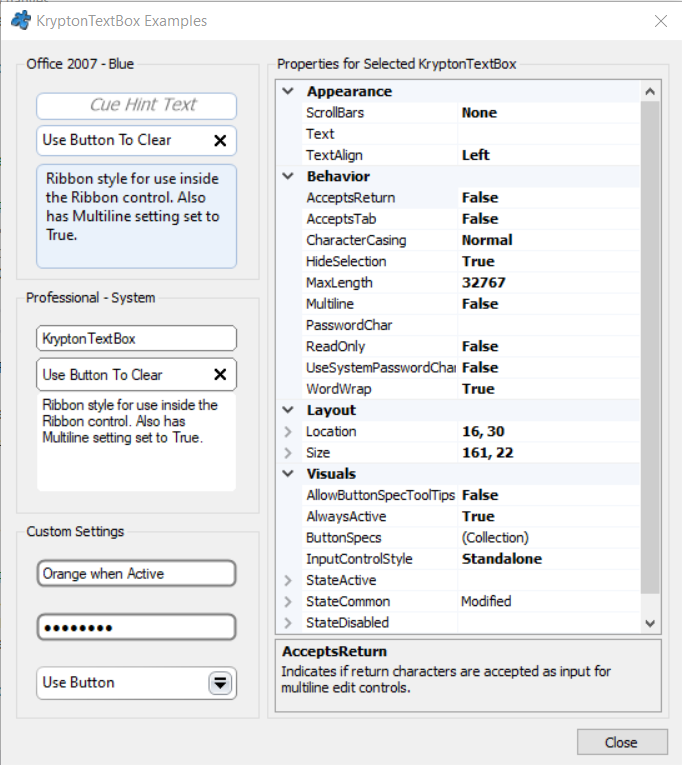
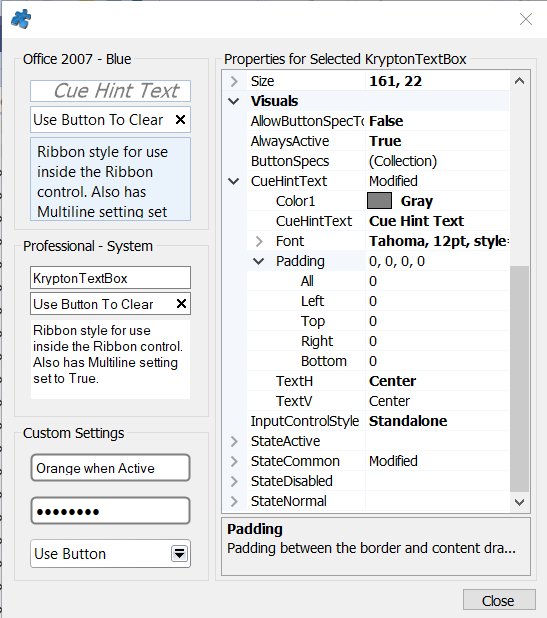
- Update example to deal with CueText Fixes and enhancements https://github.com/Krypton-Suite/Standard-Toolkit/issues/271

Changed region(s): [[0.404, 0.0615, 0.9945, 0.9838], [0.0, 0.0, 1.0, 1.0]]

diff --git a/Source/Krypton Toolkit Examples/KryptonTextBox Examples/Form1.cs b/Source/Krypton Toolkit Examples/KryptonTextBox Examples/Form1.cs
@@ -11,41 +11,29 @@
 #endregion
 
 using System;
+using System.ComponentModel;
 using System.Drawing;
 using System.Windows.Forms;
-using System.ComponentModel;
+
 using Krypton.Toolkit;
 
 namespace KryptonTextBoxExamples
 {
     public partial class Form1 : Form
     {
-        public Form1()
-        {
-            InitializeComponent();
-        }
+        public Form1() => InitializeComponent();
 
-        private void Form1_Load(object sender, EventArgs e)
-        {
+        private void Form1_Load(object sender, EventArgs e) =>
             // Setup the property grid to edit this text box
             propertyGrid.SelectedObject = new KryptonTextBoxProxy(kryptonTextBox1Blue);
-        }
 
-        private void kryptonTextBox1Blue_Enter(object sender, EventArgs e)
-        {
+        private void kryptonTextBox1Blue_Enter(object sender, EventArgs e) =>
             // Setup the property grid to edit this text box
             propertyGrid.SelectedObject = new KryptonTextBoxProxy(sender as KryptonTextBox);
-        }
 
-        private void buttonSpecAny1_Click(object sender, EventArgs e)
-        {
-            kryptonTextBox2Blue.Text = string.Empty;
-        }
+        private void buttonSpecAny1_Click(object sender, EventArgs e) => kryptonTextBox2Blue.Text = string.Empty;
 
-        private void buttonSpecAny3_Click(object sender, EventArgs e)
-        {
-            kryptonTextBox5System.Text = string.Empty;
-        }
+        private void buttonSpecAny3_Click(object sender, EventArgs e) => kryptonTextBox5System.Text = string.Empty;
 
         private void fixedText1_Click(object sender, EventArgs e)
         {
@@ -65,198 +53,181 @@ namespace KryptonTextBoxExamples
             kryptonTextBox9Custom.TextBox.Focus();
         }
 
-        private void buttonClose_Click(object sender, EventArgs e)
-        {
-            Close();
-        }
+        private void buttonClose_Click(object sender, EventArgs e) => Close();
     }
 
     public class KryptonTextBoxProxy
     {
         private KryptonTextBox _textBox;
 
-        public KryptonTextBoxProxy(KryptonTextBox textBox)
-        {
-            _textBox = textBox;
-        }
+        public KryptonTextBoxProxy(KryptonTextBox textBox) => _textBox = textBox;
 
         [Category("Appearance")]
         [Description("Text for display inside the control.")]
         public string Text
         {
-            get { return _textBox.Text; }
-            set { _textBox.Text = value; }
+            get => _textBox.Text;
+            set => _textBox.Text = value;
         }
 
         [Category("Visuals")]
         [Description("Determines if the control is always active or only when the mouse is over the control or has focus.")]
         public bool AlwaysActive
         {
-            get { return _textBox.AlwaysActive; }
-            set { _textBox.AlwaysActive = value; }
+            get => _textBox.AlwaysActive;
+            set => _textBox.AlwaysActive = value;
         }
 
         [Category("Appearance")]
         [Description("Indicates, for multiline edit controls, which scroll bars will be shown for this control.")]
         public ScrollBars ScrollBars
         {
-            get { return _textBox.ScrollBars; }
-            set { _textBox.ScrollBars = value; }
+            get => _textBox.ScrollBars;
+            set => _textBox.ScrollBars = value;
         }
 
         [Category("Appearance")]
         [Description("Indicates how the text should be aligned for edit controls.")]
         public HorizontalAlignment TextAlign
         {
-            get { return _textBox.TextAlign; }
-            set { _textBox.TextAlign = value; }
+            get => _textBox.TextAlign;
+            set => _textBox.TextAlign = value;
         }
 
         [Category("Behavior")]
         [Description("Indicates if lines are automatically word-wrapped for multiline edit controls.")]
         public bool WordWrap
         {
-            get { return _textBox.WordWrap; }
-            set { _textBox.WordWrap = value; }
+            get => _textBox.WordWrap;
+            set => _textBox.WordWrap = value;
         }
 
         [Category("Behavior")]
         [Description("Control whether the text in the control can span more than one line.")]
         public bool Multiline
         {
-            get { return _textBox.Multiline; }
-            set { _textBox.Multiline = value; }
+            get => _textBox.Multiline;
+            set => _textBox.Multiline = value;
         }
 
         [Category("Behavior")]
         [Description("Indicates if return characters are accepted as input for multiline edit controls.")]
         public bool AcceptsReturn
         {
-            get { return _textBox.AcceptsReturn; }
-            set { _textBox.AcceptsReturn = value; }
+            get => _textBox.AcceptsReturn;
+            set => _textBox.AcceptsReturn = value;
         }
 
         [Category("Behavior")]
         [Description("Indicates if tab characters are accepted as input for multiline edit controls.")]
         public bool AcceptsTab
         {
-            get { return _textBox.AcceptsTab; }
-            set { _textBox.AcceptsTab = value; }
+            get => _textBox.AcceptsTab;
+            set => _textBox.AcceptsTab = value;
         }
 
         [Category("Behavior")]
         [Description("Indicates if all the characters should be left alone or converted to uppercase or lowercase.")]
         public CharacterCasing CharacterCasing
         {
-            get { return _textBox.CharacterCasing; }
-            set { _textBox.CharacterCasing = value; }
+            get => _textBox.CharacterCasing;
+            set => _textBox.CharacterCasing = value;
         }
 
         [Category("Behavior")]
         [Description("Indicates that the selection should be hidden when the edit control loses focus.")]
         public bool HideSelection
         {
-            get { return _textBox.HideSelection; }
-            set { _textBox.HideSelection = value; }
+            get => _textBox.HideSelection;
+            set => _textBox.HideSelection = value;
         }
 
         [Category("Behavior")]
         [Description("Specifies the maximum number of characters that can be entered into the edit control.")]
         public int MaxLength
         {
-            get { return _textBox.MaxLength; }
-            set { _textBox.MaxLength = value; }
+            get => _textBox.MaxLength;
+            set => _textBox.MaxLength = value;
         }
 
         [Category("Behavior")]
         [Description("Controls whether the text in the edit control can be changed or not.")]
         public bool ReadOnly
         {
-            get { return _textBox.ReadOnly; }
-            set { _textBox.ReadOnly = value; }
+            get => _textBox.ReadOnly;
+            set => _textBox.ReadOnly = value;
         }
 
         [Category("Behavior")]
         [Description("Indicates the character to display for password input for single-line edit controls.")]
         public char PasswordChar
         {
-            get { return _textBox.PasswordChar; }
-            set { _textBox.PasswordChar = value; }
+            get => _textBox.PasswordChar;
+            set => _textBox.PasswordChar = value;
         }
 
         [Category("Behavior")]
         [Description("Indicates if the text in the edit control should appear as the default password character.")]
         public bool UseSystemPasswordChar
         {
-            get { return _textBox.UseSystemPasswordChar; }
-            set { _textBox.UseSystemPasswordChar = value; }
+            get => _textBox.UseSystemPasswordChar;
+            set => _textBox.UseSystemPasswordChar = value;
         }
 
         [Category("Visuals")]
         [Description("Input control style.")]
         public InputControlStyle InputControlStyle
         {
-            get { return _textBox.InputControlStyle; }
-            set { _textBox.InputControlStyle = value; }
+            get => _textBox.InputControlStyle;
+            set => _textBox.InputControlStyle = value;
         }
 
         [Category("Visuals")]
         [Description("Should tooltips be displayed for button specs.")]
         public bool AllowButtonSpecToolTips
         {
-            get { return _textBox.AllowButtonSpecToolTips; }
-            set { _textBox.AllowButtonSpecToolTips = value; }
+            get => _textBox.AllowButtonSpecToolTips;
+            set => _textBox.AllowButtonSpecToolTips = value;
         }
 
         [Category("Visuals")]
         [Description("Collection of button specifications.")]
-        public KryptonTextBox.TextBoxButtonSpecCollection ButtonSpecs
-        {
-            get { return _textBox.ButtonSpecs; }
-        }
+        public KryptonTextBox.TextBoxButtonSpecCollection ButtonSpecs => _textBox.ButtonSpecs;
+
+        [Category("Visuals")]
+        [Description("Initialize a new instance of the PaletteCueHintText class.")]
+        public PaletteCueHintText CueHintText => _textBox.CueHint;
 
         [Category("Visuals")]
         [Description("Overrides for defining common textbox appearance that other states can override.")]
-        public PaletteInputControlTripleRedirect StateCommon
-        {
-            get { return _textBox.StateCommon; }
-        }
+        public PaletteInputControlTripleRedirect StateCommon => _textBox.StateCommon;
 
         [Category("Visuals")]
         [Description("Overrides for defining disabled textbox appearance.")]
-        public PaletteInputControlTripleStates StateDisabled
-        {
-            get { return _textBox.StateDisabled; }
-        }
+        public PaletteInputControlTripleStates StateDisabled => _textBox.StateDisabled;
 
         [Category("Visuals")]
         [Description("Overrides for defining normal textbox appearance.")]
-        public PaletteInputControlTripleStates StateNormal
-        {
-            get { return _textBox.StateNormal; }
-        }
+        public PaletteInputControlTripleStates StateNormal => _textBox.StateNormal;
 
         [Category("Visuals")]
         [Description("Overrides for defining active textbox appearance.")]
-        public PaletteInputControlTripleStates StateActive
-        {
-            get { return _textBox.StateActive; }
-        }
+        public PaletteInputControlTripleStates StateActive => _textBox.StateActive;
 
         [Category("Layout")]
         [Description("The size of the control is pixels.")]
         public Size Size
         {
-            get { return _textBox.Size; }
-            set { _textBox.Size = value; }
+            get => _textBox.Size;
+            set => _textBox.Size = value;
         }
 
         [Category("Layout")]
         [Description("The location of the control in pixels.")]
         public Point Location
         {
-            get { return _textBox.Location; }
-            set { _textBox.Location = value; }
+            get => _textBox.Location;
+            set => _textBox.Location = value;
         }
     }
 }
